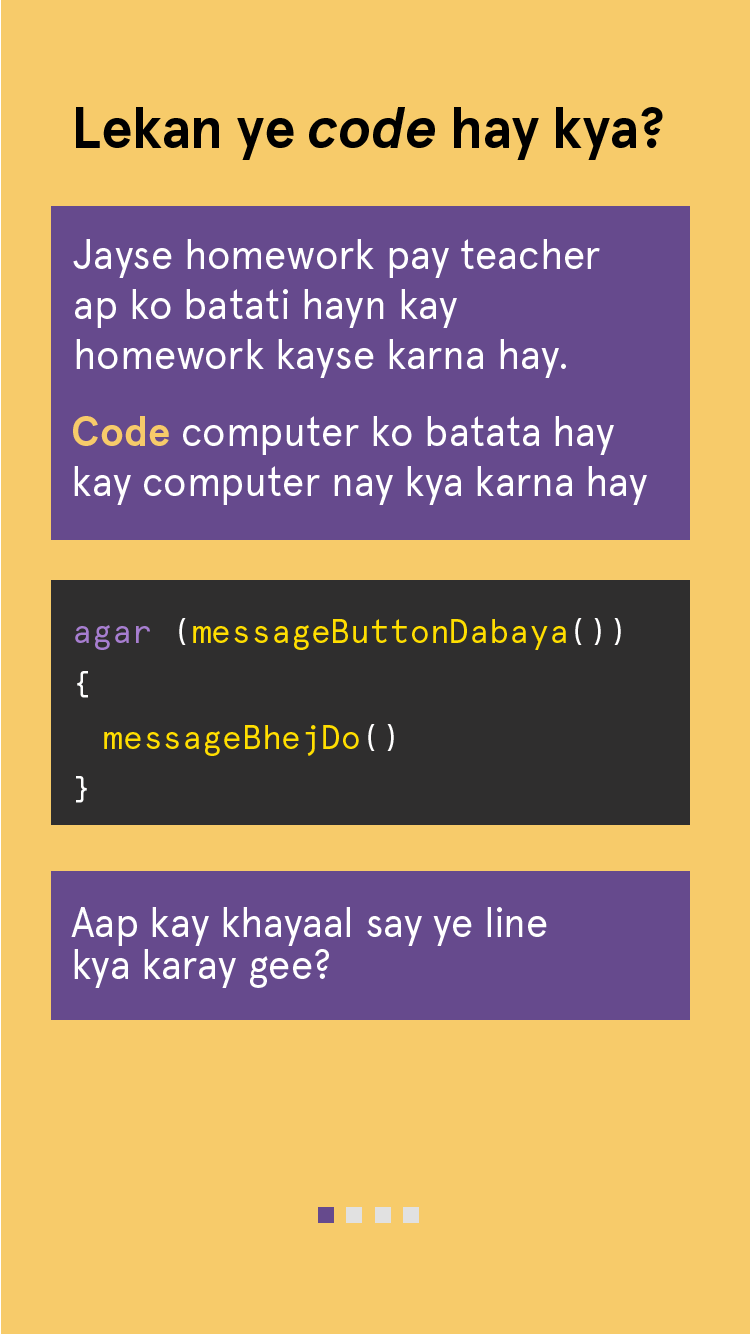
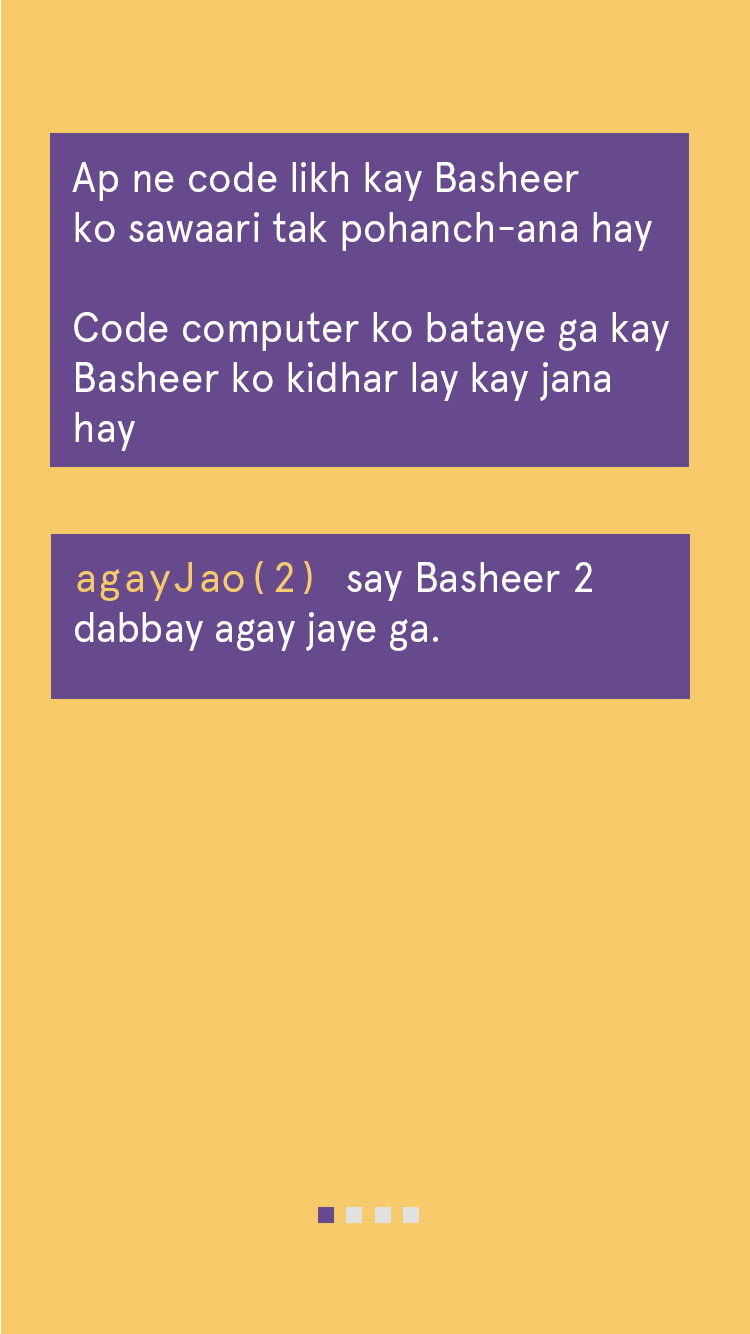
different splash states adddd

diff --git a/src/ui/components/Slider2.js b/src/ui/components/Slider2.js
@@ -1,22 +1,18 @@
 import React from "react";
 import Slider from "react-slick";
 
-var image1 = require('~/assets/images/intro0.png')
-var image2 = require('~/assets/images/intro02.png')
-var image3 = require('~/assets/images/intro1.png')
+var image1 = require('~/assets/images/intro2.png')
+
 
 var path = require('path')
-console.log('image1',image1)
-console.log('image1',image2)
-console.log('a',path.resolve(__dirname))
-console.log('dir',__dirname)
+
 
 
 console.log('~/')
 import  '~/assets/fonts/stylesheet.css';
 import PropTypes from 'prop-types';
 
-export default class HomeSlider extends React.Component {
+export default class Slider2 extends React.Component {
 
   render() {
     var settings = {
@@ -25,7 +21,7 @@ export default class HomeSlider extends React.Component {
       slidesToShow: 1,
       slidesToScroll: 1,
       afterChange: index => {
-        if (index == 3){
+        if (index == 1){
            console.log('start level 8');
           this.props.atLastSlide()
          
@@ -40,13 +36,7 @@ export default class HomeSlider extends React.Component {
             <div >
               <img  style ={style.fittedImage} src={image1} />
             </div>
-            <div >
-              <img  style ={style.fittedImage} src={image2} />
-            </div>
-            <div >
-              <img  style ={style.fittedImage} src={image3} />
-            </div>
-      
+          
       
             <div>
             </div>
@@ -61,7 +51,7 @@ export default class HomeSlider extends React.Component {
 
 
 
-HomeSlider.propTypes = {
+Slider2.propTypes = {
   atLastSlide: PropTypes.func.isRequired
 
 }

diff --git a/src/ui/components/Slider3.js b/src/ui/components/Slider3.js
@@ -1,22 +1,17 @@
 import React from "react";
 import Slider from "react-slick";
 
-var image1 = require('~/assets/images/intro0.png')
-var image2 = require('~/assets/images/intro02.png')
-var image3 = require('~/assets/images/intro1.png')
+var image1 = require('~/assets/images/intro3.png')
+
 
 var path = require('path')
-console.log('image1',image1)
-console.log('image1',image2)
-console.log('a',path.resolve(__dirname))
-console.log('dir',__dirname)
 
 
 console.log('~/')
 import  '~/assets/fonts/stylesheet.css';
 import PropTypes from 'prop-types';
 
-export default class HomeSlider extends React.Component {
+export default class Slider3 extends React.Component {
 
   render() {
     var settings = {
@@ -25,7 +20,7 @@ export default class HomeSlider extends React.Component {
       slidesToShow: 1,
       slidesToScroll: 1,
       afterChange: index => {
-        if (index == 3){
+        if (index == 1) {
            console.log('start level 8');
           this.props.atLastSlide()
          
@@ -40,13 +35,7 @@ export default class HomeSlider extends React.Component {
             <div >
               <img  style ={style.fittedImage} src={image1} />
             </div>
-            <div >
-              <img  style ={style.fittedImage} src={image2} />
-            </div>
-            <div >
-              <img  style ={style.fittedImage} src={image3} />
-            </div>
-      
+          
       
             <div>
             </div>
@@ -61,7 +50,7 @@ export default class HomeSlider extends React.Component {
 
 
 
-HomeSlider.propTypes = {
+Slider3.propTypes = {
   atLastSlide: PropTypes.func.isRequired
 
 }

diff --git a/src/ui/components/slider4.js b/src/ui/components/slider4.js
@@ -1,22 +1,17 @@
 import React from "react";
 import Slider from "react-slick";
 
-var image1 = require('~/assets/images/intro0.png')
-var image2 = require('~/assets/images/intro02.png')
-var image3 = require('~/assets/images/intro1.png')
+var image1 = require('~/assets/images/intro4.png')
+
 
 var path = require('path')
-console.log('image1',image1)
-console.log('image1',image2)
-console.log('a',path.resolve(__dirname))
-console.log('dir',__dirname)
 
 
 console.log('~/')
 import  '~/assets/fonts/stylesheet.css';
 import PropTypes from 'prop-types';
 
-export default class HomeSlider extends React.Component {
+export default class Slider4 extends React.Component {
 
   render() {
     var settings = {
@@ -25,7 +20,7 @@ export default class HomeSlider extends React.Component {
       slidesToShow: 1,
       slidesToScroll: 1,
       afterChange: index => {
-        if (index == 3){
+        if (index == 1){
            console.log('start level 8');
           this.props.atLastSlide()
          
@@ -40,13 +35,7 @@ export default class HomeSlider extends React.Component {
             <div >
               <img  style ={style.fittedImage} src={image1} />
             </div>
-            <div >
-              <img  style ={style.fittedImage} src={image2} />
-            </div>
-            <div >
-              <img  style ={style.fittedImage} src={image3} />
-            </div>
-      
+          
       
             <div>
             </div>
@@ -61,7 +50,7 @@ export default class HomeSlider extends React.Component {
 
 
 
-HomeSlider.propTypes = {
+Slider4.propTypes = {
   atLastSlide: PropTypes.func.isRequired
 
 }

diff --git a/src/ui/main.js b/src/ui/main.js
@@ -3,6 +3,10 @@ import {render} from 'react-dom';
 
 import UI from './components/UI';
 import Slider from './components/Slider';
+import Slider2 from './components/Slider2';
+import Slider3 from './components/Slider3';
+import Slider4 from './components/Slider4';
+
 
 
 
@@ -49,16 +53,35 @@ export function connect(parentId, buttons, codeCb, editorDefault,instructions,tu
 
 
 }
-export function connect_slider(parentId,sliderCb,context) {
- 
+export function connect_slider(parentId,sliderCb,number) {
+  console.log("CONNECTING SLIDER");
   const parentElem = document.getElementById(parentId)
   const sliderContainer = document.createElement('div')
   sliderContainer.classList.add("slider");
   parentElem.appendChild(sliderContainer)
-  render(
+  if (number ==1) {
+     render(
       <Slider atLastSlide={sliderCb}  />,
       sliderContainer
   );
+  } else if (number ==2) {
+     render(
+      <Slider2 atLastSlide={sliderCb}  />,
+      sliderContainer
+  );
+  } else if (number ==3) {
+     render(
+      <Slider3 atLastSlide={sliderCb}  />,
+      sliderContainer
+  );
+  } else if (number ==4) {
+     render(
+      <Slider4 atLastSlide={sliderCb}  />,
+      sliderContainer
+  );
+  }
+
+
 }
 
 export function toggleRunButton(enabled) {

diff --git a/src/main.js b/src/main.js
@@ -12,6 +12,9 @@ import Level3 from './states/Level3'
 import Level4 from './states/Level4'
 
 import Splash from './states/Splash'
+import Splash2 from './states/Splash2'
+import Splash3 from './states/Splash3'
+import Splash4 from './states/Splash4'
 
 
 import { connect } from './ui/main'
@@ -43,6 +46,9 @@ class Game extends Phaser.Game {
     this.state.add('Level4', Level4, false)
 
     this.state.add('Splash', Splash, false)
+    this.state.add('Splash2', Splash2, false)
+    this.state.add('Splash3', Splash3, false)
+    this.state.add('Splash4', Splash4, false)
 
 
     this.state.start('Boot')

diff --git a/src/states/Level1.js b/src/states/Level1.js
@@ -158,7 +158,7 @@ export default class Level1 extends Phaser.State {
 
             that.grid.moveObject(-3, 0, that.rickshaw, function() {
                 deleteUI('content')
-                that.state.start('Level2')
+                that.state.start('Splash2')
             }, 0, that.rickshawXOffset, that.rickshawYOffset, true)
 
         }, 0, this.passengerXOffset, this.passengerYOffset)

diff --git a/src/states/Level2.js b/src/states/Level2.js
@@ -128,7 +128,7 @@ export default class Level2 extends Phaser.State {
 
             that.grid.moveObject(0, -6, that.rickshaw, function() {
                 deleteUI('content')
-                that.state.start('Level3')
+                that.state.start('Splash3')
             }, 0, this.rickshawXOffset, this.rickshawYOffset, true)
 
         }, 0, this.passengerXOffset, this.passengerYOffset)

diff --git a/src/states/Level3.js b/src/states/Level3.js
@@ -197,7 +197,7 @@ export default class Level3 extends Phaser.State {
 
             that.grid.moveObject(-2, 0, that.rickshaw, function() {
                 deleteUI('content')
-                that.state.start('Level1')
+                that.state.start('Splash4')
             }, 0, this.rickshawXOffset, this.rickshawYOffset,true)
 
         }, 0,this.passengerXOffset,this.passengerYOffset)

diff --git a/src/states/Splash2.js b/src/states/Splash2.js
@@ -9,12 +9,12 @@ export default class LevelSlider extends Phaser.State {
 
   create() {
   	console.log(this.game.state)
-    connect_slider('content',this.startGame,1)
+    connect_slider('content',this.startGame,2)
   }
 
   startGame = () => {
   	console.log('starting game');
   	delete_slider()
-  	this.game.state.start('Level1')
+  	this.game.state.start('Level2')
   }
 }

diff --git a/src/states/Splash3.js b/src/states/Splash3.js
@@ -9,12 +9,12 @@ export default class LevelSlider extends Phaser.State {
 
   create() {
   	console.log(this.game.state)
-    connect_slider('content',this.startGame,1)
+    connect_slider('content',this.startGame,3)
   }
 
   startGame = () => {
   	console.log('starting game');
   	delete_slider()
-  	this.game.state.start('Level1')
+  	this.game.state.start('Level3')
   }
 }

diff --git a/src/states/Splash4.js b/src/states/Splash4.js
@@ -9,7 +9,7 @@ export default class LevelSlider extends Phaser.State {
 
   create() {
   	console.log(this.game.state)
-    connect_slider('content',this.startGame,1)
+    connect_slider('content',this.startGame,4)
   }
 
   startGame = () => {

diff --git a/src/states/Boot.js b/src/states/Boot.js
@@ -48,6 +48,6 @@ export default class extends Phaser.State {
 
   create() {
     FBInstant.startGameAsync()
-      .then(() => this.state.start('Level2'))
+      .then(() => this.state.start('Splash'))
   }
 }
